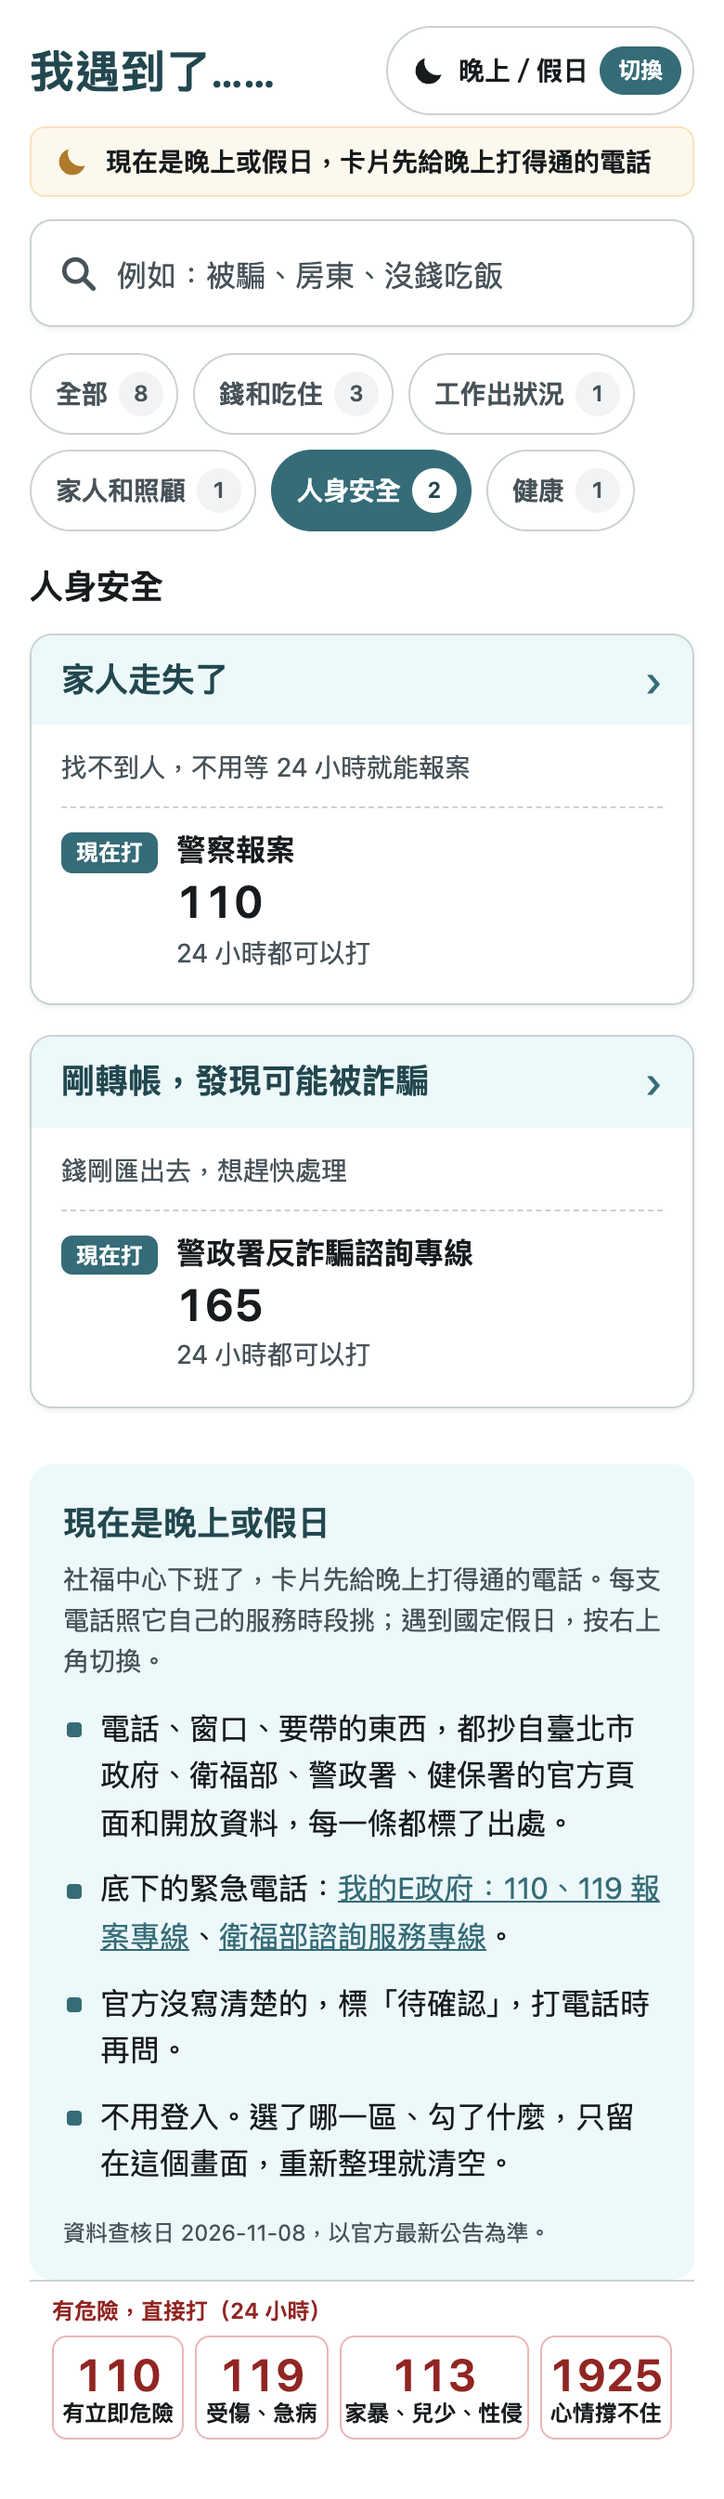
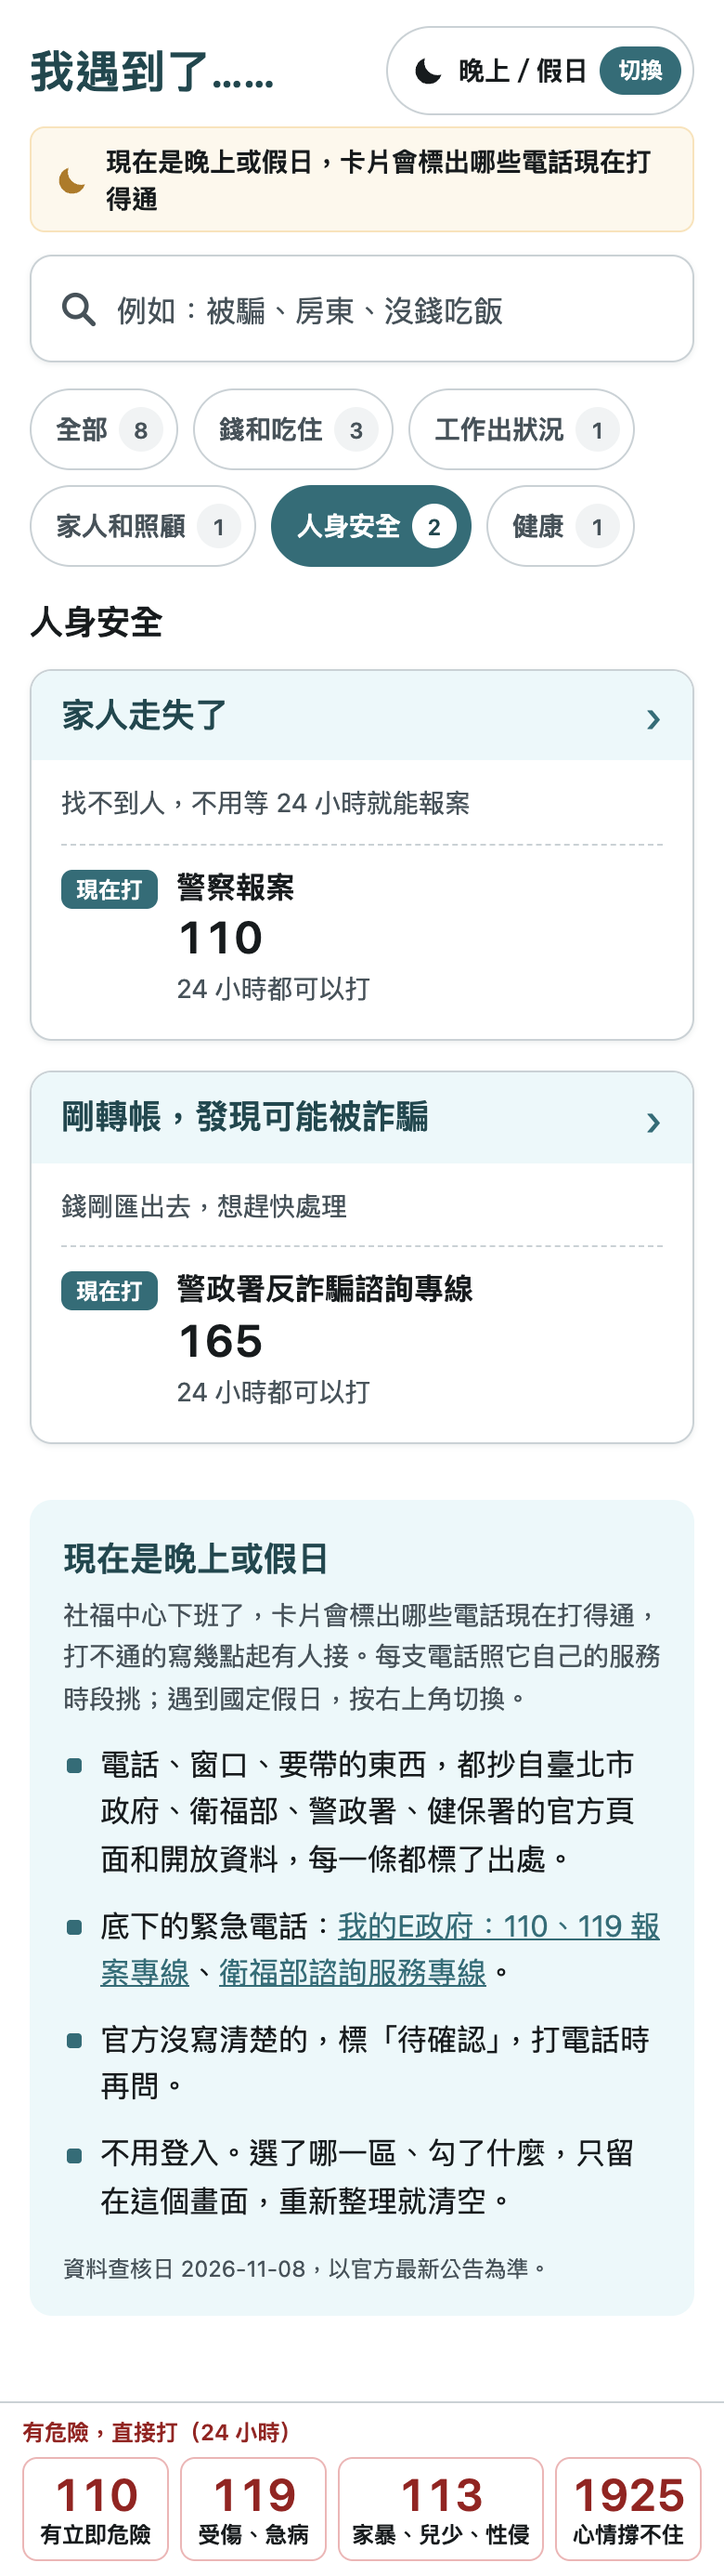
fix(situation): 晚上提示列跟著號碼開線狀態走，閉線卡改寫幾點起有人接
租屋、出院、健保晚上顯示的號碼沒開，提示列卻說「先給晚上打得通的電話」。
改成依 status.open 分支；首頁不再宣稱每張卡都打得通。重拍 7 張晚上截圖。

diff --git a/docs/prototypes/situation-entry/app.js b/docs/prototypes/situation-entry/app.js
@@ -37,6 +37,14 @@
     return esc(text).replace(/(\d{1,2}:\d{2}–\d{1,2}:\d{2})/g, '<span class="nw">$1</span>');
   }
 
+  /* The night strip on a card follows the number it shows: open -> say so; closed -> say when it opens.
+   * plan() shows the first open call, so a closed number means no call on this card is open now. */
+  function callNightText(status) {
+    if (status.open) return '現在是晚上或假日，先給晚上打得通的電話';
+    if (status.next) return `現在是晚上或假日，這支電話${status.next}才有人接`;
+    return '現在是晚上或假日，這支電話的服務時段待確認，打之前先看下面的時段';
+  }
+
   // The first call's own hours, and whether now is inside them.
   function statusText(status) {
     if (status.pending) return status.hours;
@@ -205,7 +213,7 @@
     const lineSources = [...new Set(data.emergencyLines.flatMap((line) => line.sources))]
       .map((id) => `<a href="${esc(data.sources[id].url)}" rel="noopener">${esc(data.sources[id].short)}</a>`).join('、');
     return `<header class="top"><h1>我遇到了……</h1>${periodTag(state)}</header>`
-      + nightNote(state, '現在是晚上或假日，卡片先給晚上打得通的電話')
+      + nightNote(state, '現在是晚上或假日，卡片會標出哪些電話現在打得通')
       + searchBox(filter)
       + `<div class="cats" role="group" aria-label="依分類篩選" data-cats>${categoryChips(data, filter)}</div>`
       + `<p class="sr-only" role="status" aria-live="polite" data-result-count>${esc(resultCountText(data, filter))}</p>`
@@ -213,7 +221,7 @@
       + `<section class="trust" aria-label="這頁怎麼做的">`
       + `<p class="trust-title">${night ? '現在是晚上或假日' : '現在是平日上班時間'}</p>`
       + `<p class="trust-lead">${night
-        ? '社福中心下班了，卡片先給晚上打得通的電話。'
+        ? '社福中心下班了，卡片會標出哪些電話現在打得通，打不通的寫幾點起有人接。'
         : '社福中心有人接，卡片先給你那一區的電話。'}每支電話照它自己的服務時段挑；遇到國定假日，按右上角切換。</p>`
       + `<ul class="trust-list">`
       + `<li>電話、窗口、要帶的東西，都抄自臺北市政府、衛福部、警政署、健保署的官方頁面和開放資料，每一條都標了出處。</li>`
@@ -294,7 +302,7 @@
     return `<header class="top"><a class="back" href="#/" aria-label="回到所有卡片">‹</a>${periodTag(state)}</header>`
       + `<article class="card${situation.urgent ? ' is-urgent' : ''}" aria-labelledby="card-title">`
       + `<div class="band"><h1 id="card-title">${esc(situation.title)}</h1><p class="band-sub">${esc(situation.subtitle)}</p></div>`
-      + `<section class="part call" aria-label="現在打給誰">${nightNote(state, '現在是晚上或假日，先給晚上打得通的電話')}<p class="label">${p.status.open ? '現在打給' : '上班時間打給'}</p>${callBlock(data, p, index, state)}${timeNote}</section>`
+      + `<section class="part call" aria-label="現在打給誰">${nightNote(state, callNightText(p.status))}<p class="label">${p.status.open ? '現在打給' : '上班時間打給'}</p>${callBlock(data, p, index, state)}${timeNote}</section>`
       + `<section class="part say" aria-label="接通後照著說"><p class="label">接通後照著說</p>`
       + `<p class="script">「${C.scriptHtml(script.quote, 'blank', state.district)}」</p>`
       + `<p class="script-src">空格換成你的情況。${C.refsHtml(index, p.say.sources)}</p></section>`
